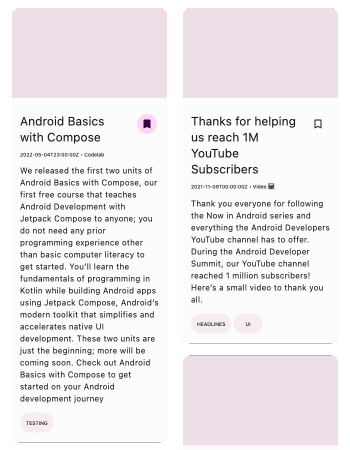
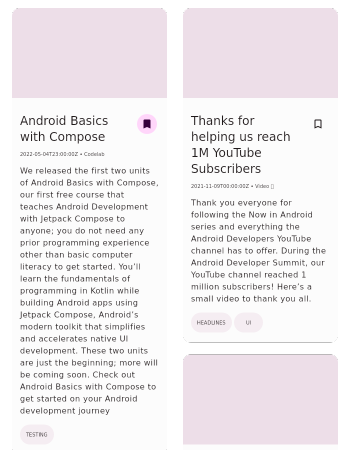
Fix desktop image placeholders and target SDK

Changed region(s): [[0.0571, 0.2489, 0.4571, 0.9956], [0.5429, 0.2489, 0.9429, 0.6844], [0.5429, 0.7156, 0.9429, 0.8089]]

diff --git a/core/designsystem/src/commonMain/kotlin/com/google/samples/apps/nowinandroid/core/designsystem/component/DynamicAsyncImage.kt b/core/designsystem/src/commonMain/kotlin/com/google/samples/apps/nowinandroid/core/designsystem/component/DynamicAsyncImage.kt
@@ -30,46 +30,55 @@ import androidx.compose.ui.Alignment
 import androidx.compose.ui.Modifier
 import androidx.compose.ui.graphics.Color.Companion.Unspecified
 import androidx.compose.ui.graphics.ColorFilter
+import androidx.compose.ui.graphics.painter.Painter
 import androidx.compose.ui.layout.ContentScale
 import androidx.compose.ui.platform.LocalInspectionMode
 import androidx.compose.ui.unit.dp
 import coil3.ImageLoader
-import coil3.compose.AsyncImage
 import coil3.compose.AsyncImagePainter.State.Error
 import coil3.compose.AsyncImagePainter.State.Loading
 import coil3.compose.rememberAsyncImagePainter
 import com.google.samples.apps.nowinandroid.core.designsystem.theme.LocalTintTheme
 
 /**
- * A wrapper around [AsyncImage] which determines the colorFilter based on the theme
+ * A wrapper around [rememberAsyncImagePainter] which determines the colorFilter based on the theme
  */
 @Composable
 fun DynamicAsyncImage(
     imageUrl: String,
     imageLoader: ImageLoader,
     contentDescription: String?,
+    placeholder: Painter,
     modifier: Modifier = Modifier,
-    // TODO Use Compose resources to present a placeholder
-//    placeholder: Painter = painterResource(R.drawable.core_designsystem_ic_placeholder_default),
 ) {
     val iconTint = LocalTintTheme.current.iconTint
-    var isLoading by remember { mutableStateOf(true) }
+    val isLocalInspection = LocalInspectionMode.current
+    var isLoading by remember { mutableStateOf(!isLocalInspection) }
     var isError by remember { mutableStateOf(false) }
     val asyncImagePainter = rememberAsyncImagePainter(
-        model = imageUrl,
+        model = if (isLocalInspection) null else imageUrl,
         onState = { state ->
             isLoading = state is Loading
             isError = state is Error
         },
         imageLoader = imageLoader,
     )
-    val isLocalInspection = LocalInspectionMode.current
+    val imagePainter = if (isLocalInspection || isLoading || isError) {
+        placeholder
+    } else {
+        asyncImagePainter
+    }
     Box(
         modifier = modifier,
         contentAlignment = Alignment.Center,
     ) {
+        Image(
+            contentScale = ContentScale.Crop,
+            painter = imagePainter,
+            contentDescription = contentDescription,
+            colorFilter = if (iconTint != Unspecified) ColorFilter.tint(iconTint) else null,
+        )
         if (isLoading && !isLocalInspection) {
-            // Display a progress bar while loading
             CircularProgressIndicator(
                 modifier = Modifier
                     .align(Alignment.Center)
@@ -77,12 +86,5 @@ fun DynamicAsyncImage(
                 color = MaterialTheme.colorScheme.tertiary,
             )
         }
-        Image(
-            contentScale = ContentScale.Crop,
-            painter = asyncImagePainter,
-//            painter = if (isError.not() && !isLocalInspection) imageLoader else placeholder,
-            contentDescription = contentDescription,
-            colorFilter = if (iconTint != Unspecified) ColorFilter.tint(iconTint) else null,
-        )
     }
 }

diff --git a/core/ui/src/commonMain/kotlin/com/google/samples/apps/nowinandroid/core/ui/InterestsItem.kt b/core/ui/src/commonMain/kotlin/com/google/samples/apps/nowinandroid/core/ui/InterestsItem.kt
@@ -29,6 +29,7 @@ import androidx.compose.material3.Text
 import androidx.compose.runtime.Composable
 import androidx.compose.ui.Modifier
 import androidx.compose.ui.graphics.Color
+import androidx.compose.ui.platform.LocalInspectionMode
 import androidx.compose.ui.semantics.selected
 import androidx.compose.ui.semantics.semantics
 import androidx.compose.ui.tooling.preview.Preview
@@ -40,8 +41,10 @@ import com.google.samples.apps.nowinandroid.core.designsystem.component.NiaIconT
 import com.google.samples.apps.nowinandroid.core.designsystem.icon.NiaIcons
 import com.google.samples.apps.nowinandroid.core.designsystem.theme.NiaTheme
 import nowinandroid.core.ui.generated.resources.Res
+import nowinandroid.core.ui.generated.resources.core_ui_ic_topic_placeholder
 import nowinandroid.core.ui.generated.resources.core_ui_interests_card_follow_button_content_desc
 import nowinandroid.core.ui.generated.resources.core_ui_interests_card_unfollow_button_content_desc
+import org.jetbrains.compose.resources.painterResource
 import org.jetbrains.compose.resources.stringResource
 
 @Composable
@@ -105,7 +108,7 @@ fun InterestsItem(
 
 @Composable
 private fun InterestsIcon(topicImageUrl: String, modifier: Modifier = Modifier) {
-    if (topicImageUrl.isEmpty()) {
+    if (topicImageUrl.isEmpty() || LocalInspectionMode.current) {
         Icon(
             modifier = modifier
                 .background(MaterialTheme.colorScheme.surface)
@@ -120,6 +123,7 @@ private fun InterestsIcon(topicImageUrl: String, modifier: Modifier = Modifier) 
             contentDescription = null,
             modifier = modifier,
             imageLoader = ImageLoader(LocalPlatformContext.current),
+            placeholder = painterResource(Res.drawable.core_ui_ic_topic_placeholder),
         )
     }
 }

diff --git a/feature/foryou/impl/src/commonMain/kotlin/com/google/samples/apps/nowinandroid/feature/foryou/ForYouScreen.kt b/feature/foryou/impl/src/commonMain/kotlin/com/google/samples/apps/nowinandroid/feature/foryou/ForYouScreen.kt
@@ -94,9 +94,11 @@ import com.google.samples.apps.nowinandroid.core.ui.collectAsStateWithLifecycle
 import com.google.samples.apps.nowinandroid.core.ui.newsFeed
 import nowinandroid.feature.foryou.impl.generated.resources.Res
 import nowinandroid.feature.foryou.impl.generated.resources.feature_foryou_done
+import nowinandroid.feature.foryou.impl.generated.resources.feature_foryou_ic_icon_placeholder
 import nowinandroid.feature.foryou.impl.generated.resources.feature_foryou_loading
 import nowinandroid.feature.foryou.impl.generated.resources.feature_foryou_onboarding_guidance_subtitle
 import nowinandroid.feature.foryou.impl.generated.resources.feature_foryou_onboarding_guidance_title
+import org.jetbrains.compose.resources.painterResource
 import org.jetbrains.compose.resources.stringResource
 import org.koin.compose.viewmodel.koinViewModel
 
@@ -429,7 +431,6 @@ fun TopicIcon(
     modifier: Modifier = Modifier,
 ) {
     DynamicAsyncImage(
-//        placeholder = painterResource(R.drawable.feature_foryou_ic_icon_placeholder),
         imageUrl = imageUrl,
         // decorative
         contentDescription = null,
@@ -437,6 +438,7 @@ fun TopicIcon(
             .padding(10.dp)
             .size(32.dp),
         imageLoader = ImageLoader(LocalPlatformContext.current),
+        placeholder = painterResource(Res.drawable.feature_foryou_ic_icon_placeholder),
     )
 }
 

diff --git a/feature/topic/impl/src/commonMain/kotlin/com/google/samples/apps/nowinandroid/feature/topic/TopicScreen.kt b/feature/topic/impl/src/commonMain/kotlin/com/google/samples/apps/nowinandroid/feature/topic/TopicScreen.kt
@@ -70,7 +70,9 @@ import com.google.samples.apps.nowinandroid.core.ui.collectAsStateWithLifecycle
 import com.google.samples.apps.nowinandroid.core.ui.userNewsResourceCardItems
 import nowinandroid.core.ui.generated.resources.core_ui_back
 import nowinandroid.feature.topic.impl.generated.resources.Res
+import nowinandroid.feature.topic.impl.generated.resources.feature_topic_ic_topic_placeholder
 import nowinandroid.feature.topic.impl.generated.resources.feature_topic_loading
+import org.jetbrains.compose.resources.painterResource
 import org.jetbrains.compose.resources.stringResource
 import org.koin.compose.viewmodel.koinViewModel
 
@@ -228,6 +230,7 @@ private fun TopicHeader(name: String, description: String, imageUrl: String) {
                 .size(132.dp)
                 .padding(bottom = 12.dp),
             imageLoader = ImageLoader(LocalPlatformContext.current),
+            placeholder = painterResource(Res.drawable.feature_topic_ic_topic_placeholder),
         )
         Text(name, style = MaterialTheme.typography.displayMedium)
         if (description.isNotEmpty()) {

diff --git a/feature/settings/impl/src/jvmTest/kotlin/com/google/samples/apps/nowinandroid/feature/settings/SettingsDialogDesktopScreenshotTests.kt b/feature/settings/impl/src/jvmTest/kotlin/com/google/samples/apps/nowinandroid/feature/settings/SettingsDialogDesktopScreenshotTests.kt
@@ -20,7 +20,7 @@ import androidx.compose.runtime.CompositionLocalProvider
 import androidx.compose.ui.platform.LocalInspectionMode
 import androidx.compose.ui.test.ExperimentalTestApi
 import androidx.compose.ui.test.isRoot
-import androidx.compose.ui.test.runDesktopComposeUiTest
+import androidx.compose.ui.test.v2.runDesktopComposeUiTest
 import com.google.samples.apps.nowinandroid.core.designsystem.theme.NiaTheme
 import com.google.samples.apps.nowinandroid.core.model.data.DarkThemeConfig
 import com.google.samples.apps.nowinandroid.core.model.data.ThemeBrand

diff --git a/core/screenshot-testing/src/jvmMain/kotlin/com/google/samples/apps/nowinandroid/core/testing/util/DesktopScreenshotHelper.kt b/core/screenshot-testing/src/jvmMain/kotlin/com/google/samples/apps/nowinandroid/core/testing/util/DesktopScreenshotHelper.kt
@@ -21,7 +21,7 @@ import androidx.compose.runtime.CompositionLocalProvider
 import androidx.compose.ui.platform.LocalInspectionMode
 import androidx.compose.ui.test.ExperimentalTestApi
 import androidx.compose.ui.test.onRoot
-import androidx.compose.ui.test.runDesktopComposeUiTest
+import androidx.compose.ui.test.v2.runDesktopComposeUiTest
 import com.github.takahirom.roborazzi.RoborazziOptions
 import com.github.takahirom.roborazzi.RoborazziOptions.CompareOptions
 import com.github.takahirom.roborazzi.RoborazziOptions.RecordOptions

diff --git a/build-logic/convention/src/main/kotlin/AndroidApplicationConventionPlugin.kt b/build-logic/convention/src/main/kotlin/AndroidApplicationConventionPlugin.kt
@@ -39,7 +39,7 @@ class AndroidApplicationConventionPlugin : Plugin<Project> {
             extensions.configure<ApplicationExtension> {
                 configureKotlinAndroid(this)
                 configureAndroidCompose(this)
-                defaultConfig.targetSdk = 36
+                defaultConfig.targetSdk = 37
                 @Suppress("UnstableApiUsage")
                 testOptions.animationsDisabled = true
                 configureGradleManagedDevices(this)

diff --git a/build-logic/convention/src/main/kotlin/AndroidTestConventionPlugin.kt b/build-logic/convention/src/main/kotlin/AndroidTestConventionPlugin.kt
@@ -31,7 +31,7 @@ class AndroidTestConventionPlugin : Plugin<Project> {
 
             extensions.configure<TestExtension> {
                 configureKotlinAndroid(this)
-                defaultConfig.targetSdk = 36
+                defaultConfig.targetSdk = 37
                 configureGradleManagedDevices(this)
             }
         }
